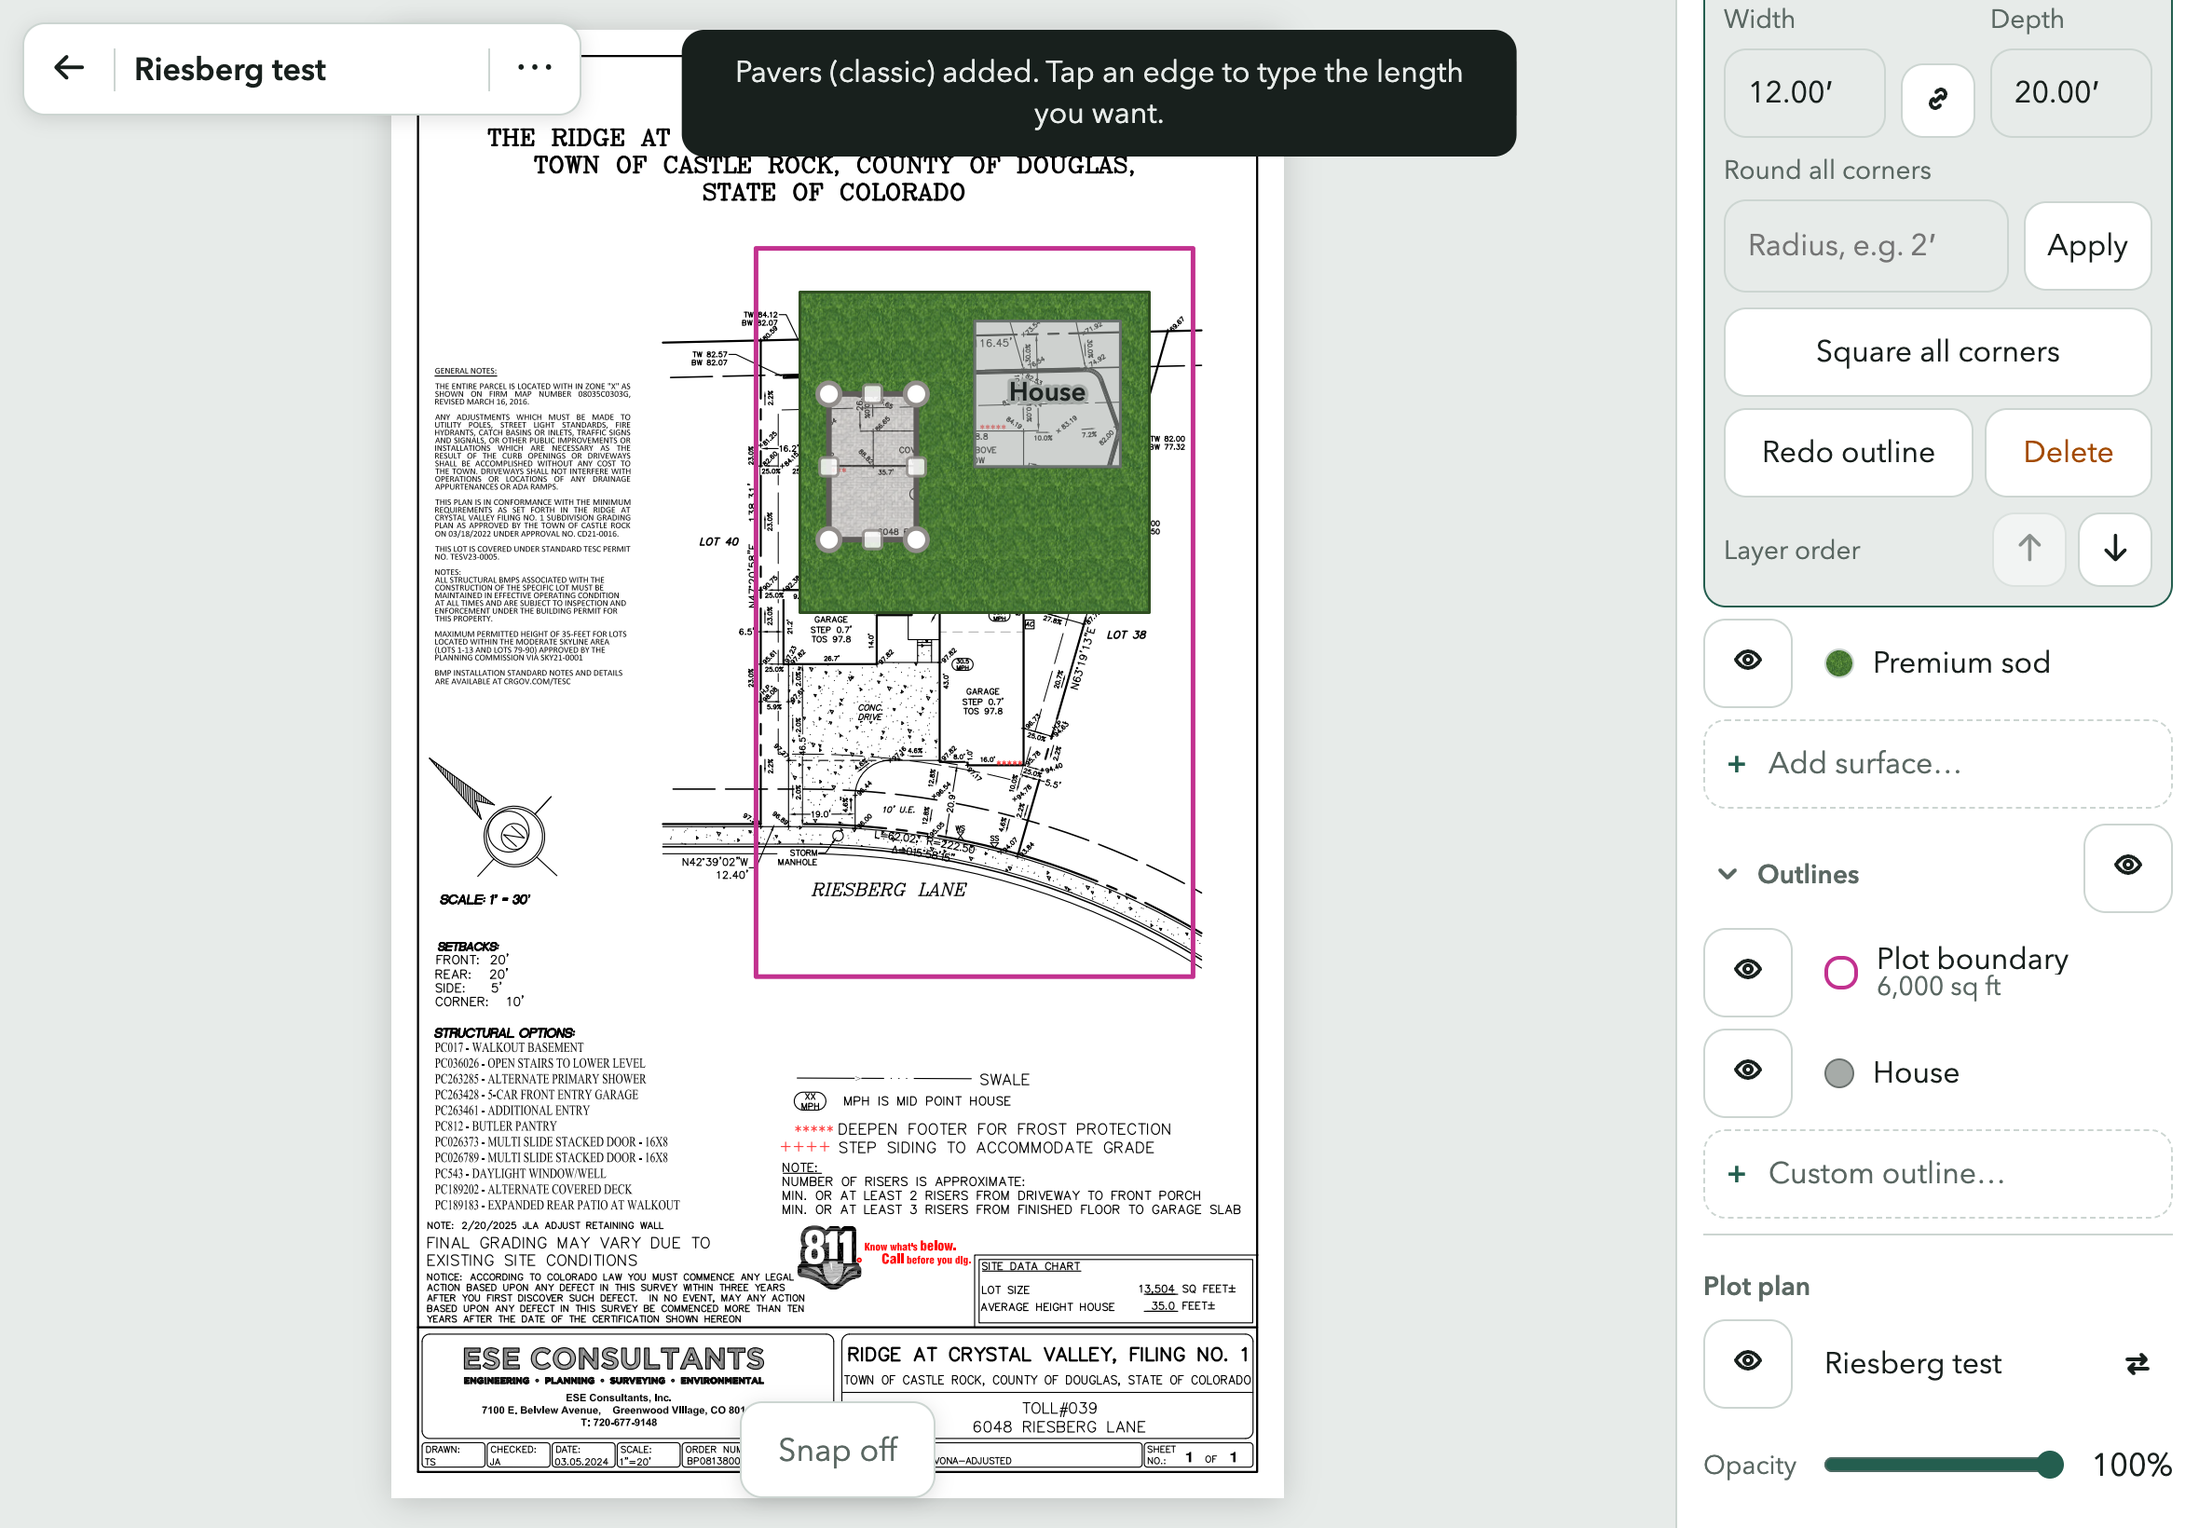
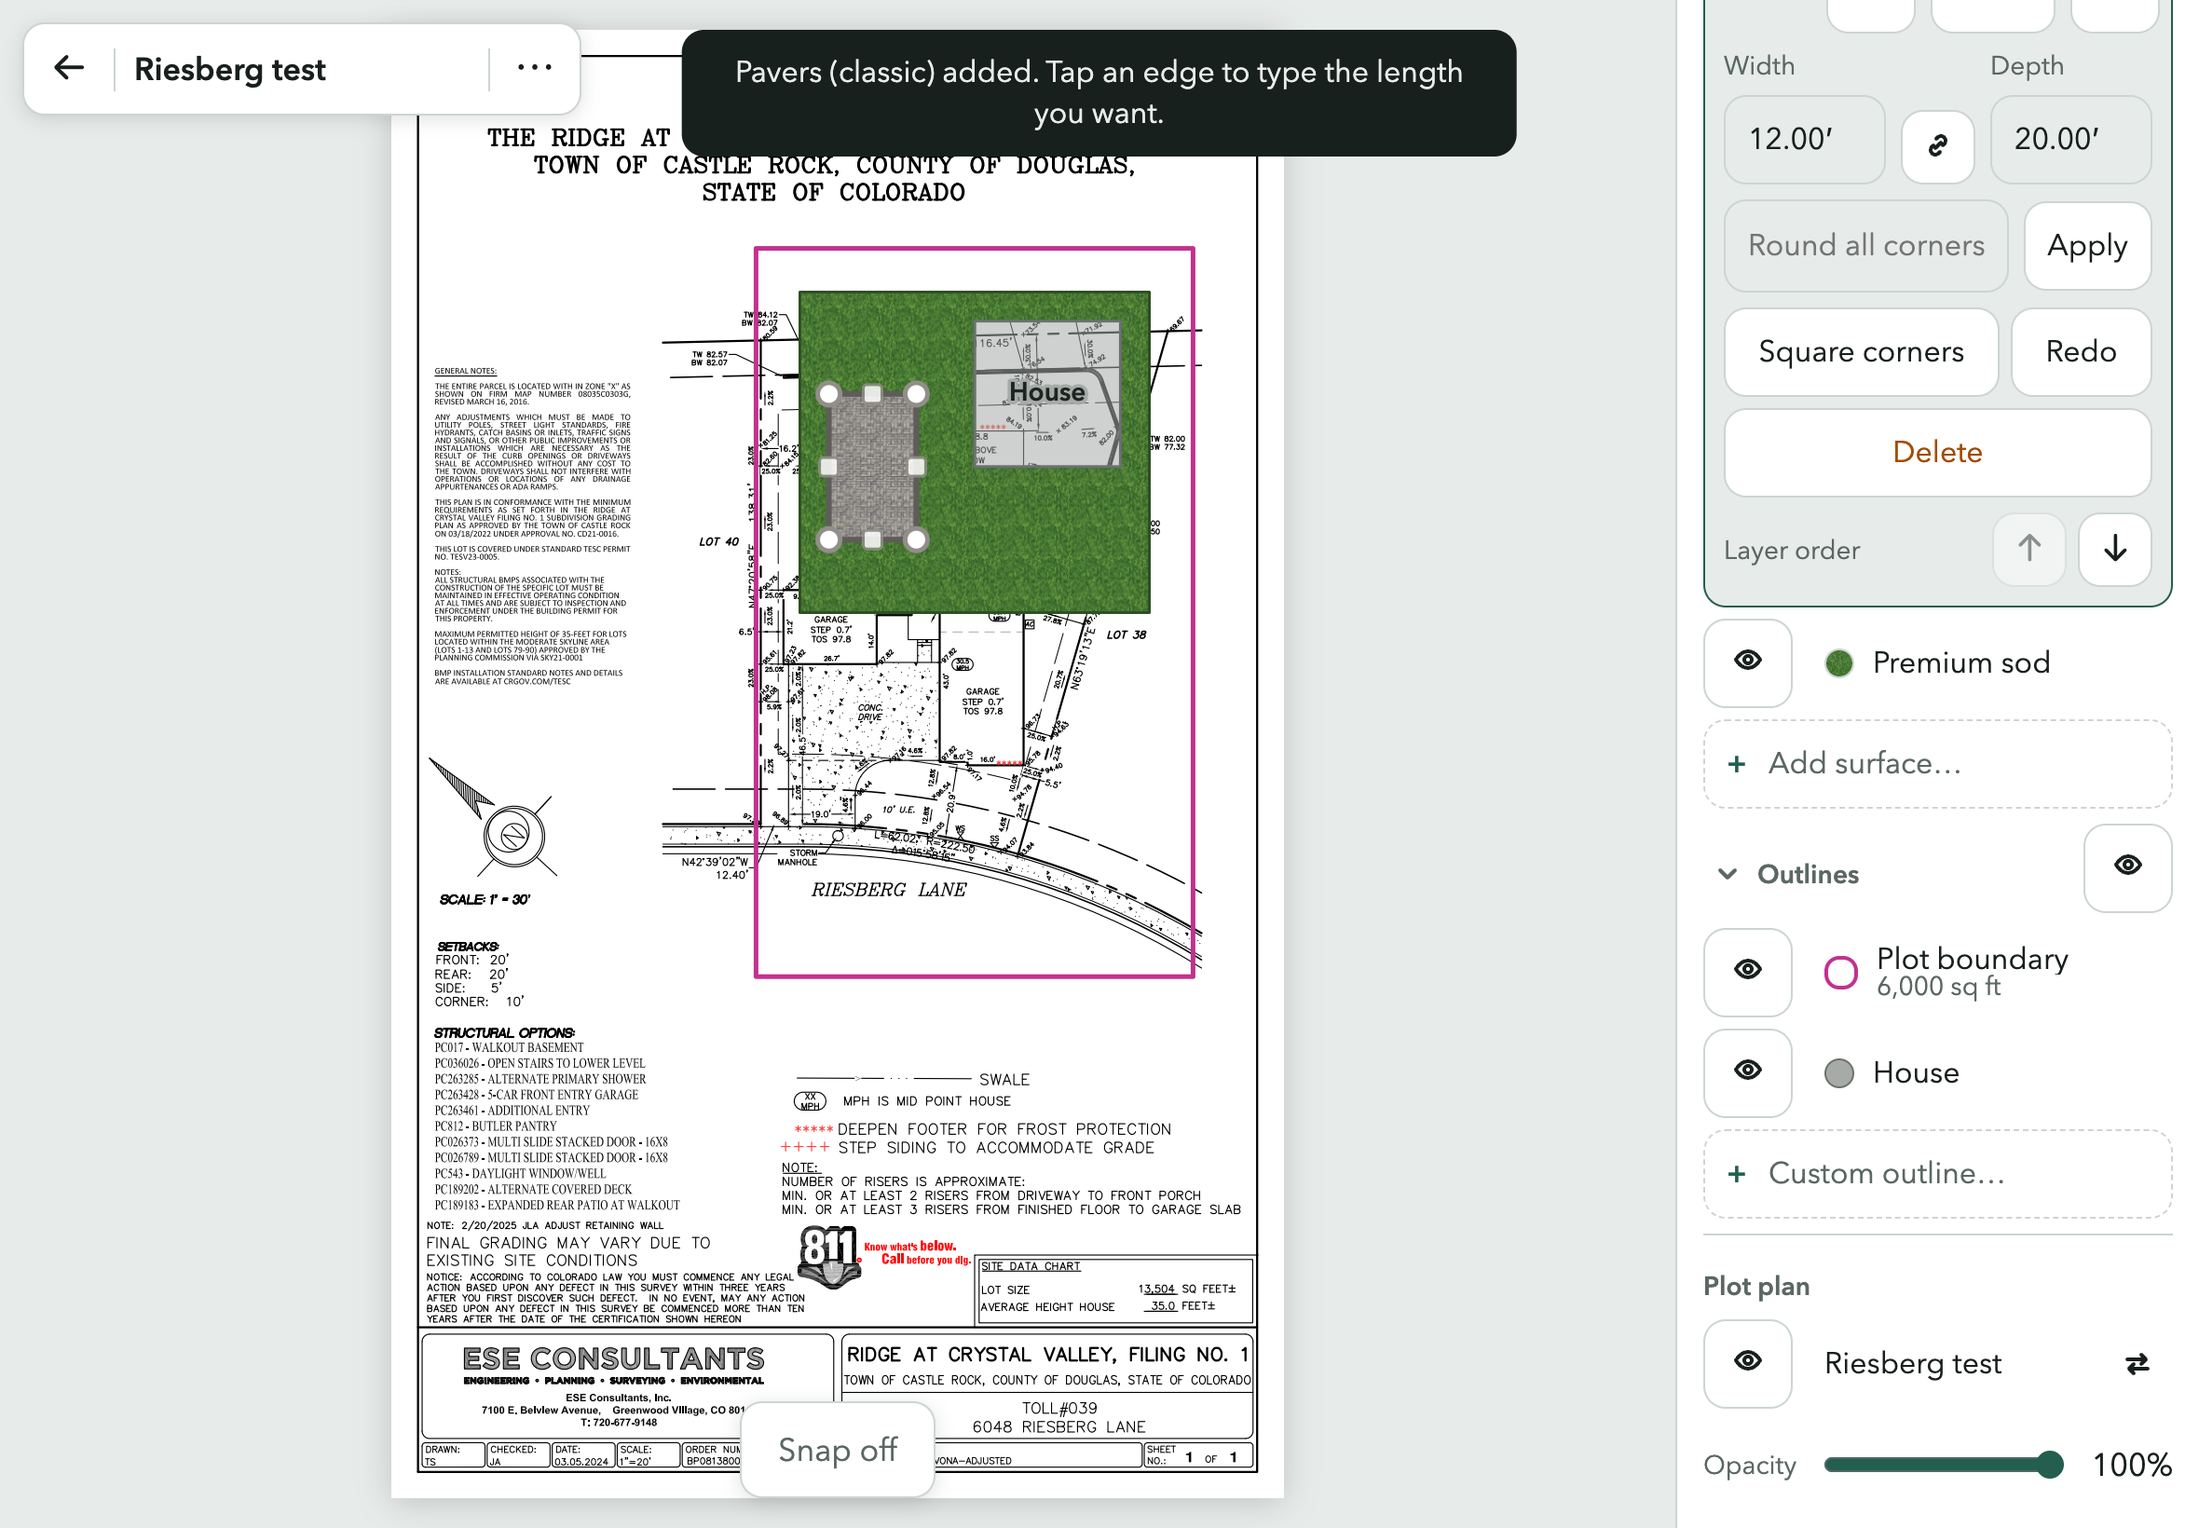
feat(surfaces): arrow keys step Round all corners; round handle sits further out with a bigger target

diff --git a/plan-builder/src/outline-ui.ts b/plan-builder/src/outline-ui.ts
@@ -747,7 +747,7 @@ export class OutlineTool {
     return o?.kind === 'surface' && o.closed ? o : null;
   }
   /** Where the selected surface corner's round handle sits (screen), on its bisector at the arc's middle. */
-  private roundHandlePos(): { id: string; i: number; at: Point } | null {
+  private roundHandlePos(): { id: string; i: number; at: Point; onArc: boolean } | null {
     const o = this.selectedZone, sel = this.selectedCorner;
     // The corner the pointer is near shows its handle; otherwise the selected corner does.
     const c = this.hoverCorner !== null && o ? { id: o.id, i: this.hoverCorner } : sel;
@@ -755,15 +755,15 @@ export class OutlineTool {
     // On the arc's middle once rounded (on the drawn line, even when the radius is clamped to the sides); a sharp
     // corner's handle sits just inside it.
     const arc = cornerArc(o.pts, c.i, o.radii?.[c.i] ?? 0);
-    if (arc) return { id: o.id, i: c.i, at: this.host.toScreen(arc[arc.length >> 1]) };
+    if (arc) return { id: o.id, i: c.i, at: this.host.toScreen(arc[arc.length >> 1]), onArc: true };
     const { dir } = cornerBisector(o.pts, c.i), d = MARK.roundHandleMin;
     const s = this.host.toScreen(o.pts[c.i]), t = this.host.toScreen({ x: o.pts[c.i].x + dir.x, y: o.pts[c.i].y + dir.y });
     const u = { x: t.x - s.x, y: t.y - s.y }, l = Math.hypot(u.x, u.y) || 1;
-    return { id: o.id, i: c.i, at: { x: s.x + u.x / l * d, y: s.y + u.y / l * d } };
+    return { id: o.id, i: c.i, at: { x: s.x + u.x / l * d, y: s.y + u.y / l * d }, onArc: false };
   }
   private roundHandleAt(p: Point) {
     const h = this.drawing ? null : this.roundHandlePos();
-    return h && dist(h.at, p) < HIT.roundHandle ? h : null;
+    return h && dist(h.at, p) < (h.onArc ? HIT.roundHandleOnArc : HIT.roundHandle) ? h : null;
   }
   private bendHandleAt(p: Point): { id: string; i: number } | null {
     let best: { id: string; i: number } | null = null, bd: number = HIT.bend;
@@ -870,11 +870,19 @@ export class OutlineTool {
     this.update();
   }
   /** Round every corner of a surface to one radius in feet (0 = all sharp). */
-  roundAll(id: string, feet: number) {
+  roundAll(id: string, feet: number, steps = false) {
     const o = this.outlines[id], c = this.cal; if (o?.kind !== 'surface' || !c) return;
-    this.record();
+    // Arrow-key steps within 1.5 s undo as one step (like a corner's).
+    const t = performance.now(), ln = this.lastNudge, key = -1, run = steps && ln && ln.id === id && ln.i === key && t - ln.t < 1500;
+    if (!run) this.record(); else this.revision++;
+    if (steps) this.lastNudge = { t, id, i: key };
     o.radii = o.pts.map(() => feet / c.ftPerPt);
     this.update();
+  }
+  /** The one radius (feet) every corner of a surface has, or 0 when they differ or are sharp. */
+  uniformRadius(id: string): number {
+    const o = this.outlines[id], c = this.cal, r = o?.radii; if (!o || !c || !r?.length || r.length !== o.pts.length || r.some(x => x !== r[0])) return 0;
+    return Math.round(r[0] * c.ftPerPt * 100) / 100;
   }
   /** Square all corners: line every corner of an outline up with the others at once. */
   squareAll(id: string) {

diff --git a/plan-builder/src/surfaces-ui.ts b/plan-builder/src/surfaces-ui.ts
@@ -4,6 +4,7 @@
 import { material, materialsByFamily, type MaterialId } from './materials';
 import { TEX_SCALE } from './outline';
 import { formatFeet, parseFeet, parseRadius, stepTexScale, type Outline } from './outline';
+import { stepRadius } from './shape-edit';
 import type { OutlineTool } from './outline-ui';
 import { drawingCard, editActions, orderControl, wireLayerCard } from './layer-card';
 import { button, caption, choiceLine, esc, field, formStack, hint, input, layerCard, layerForm, layerRow, nudgePad, row, suggestRow, swatch } from './ui';
@@ -63,11 +64,23 @@ export class SurfacesSection {
       size.querySelector<HTMLButtonElement>('[data-act=aspect-lock]')!.onclick = () => { t.aspectLock = !t.aspectLock; this.render(); };
     }
     const round = this.el.querySelector<HTMLFormElement>('form.round-all');
-    if (round && card) round.onsubmit = e => {
-      e.preventDefault();
-      const ft = parseRadius(round.querySelector('input')!.value);
-      if (ft !== null) t.roundAll(card.dataset.card!, ft);
-    };
+    if (round && card) {
+      const field = round.querySelector<HTMLInputElement>('input')!, id = card.dataset.card!;
+      round.onsubmit = e => {
+        e.preventDefault();
+        const ft = parseRadius(field.value);
+        if (ft !== null) t.roundAll(id, ft);
+      };
+      // Arrow keys step the radius live (0.5′, Shift 2′), like a corner's; the field keeps focus through the redraw.
+      field.onkeydown = e => {
+        if (e.key !== 'ArrowUp' && e.key !== 'ArrowDown') return;
+        e.preventDefault();
+        const ft = stepRadius(parseRadius(field.value) ?? t.uniformRadius(id), e.key === 'ArrowUp' ? 1 : -1, e.shiftKey);
+        t.roundAll(id, ft, true);
+        const next = this.el.querySelector<HTMLInputElement>('form.round-all input');
+        if (next) { next.value = ft ? String(ft) : ''; next.focus(); }
+      };
+    }
   }
 
   /** Width × Depth of the zone's bounding box with an aspect lock between them (needs a scale). */
@@ -96,7 +109,7 @@ export class SurfacesSection {
     const mat = this.changing === o.id ? picker(o.material)
       : choiceLine(swatch(sw), material(o.material!).name, button('Change', { mods: ['compact'], data: { act: 'change-material' } }));
     const round = t.cal ? formStack(row(
-      input('round-all', { inputmode: 'decimal', placeholder: 'Round all corners, e.g. 2′', ariaLabel: 'Round all corners' }), button('Apply', { mods: ['compact'], type: 'submit' })), 'round-all') : '';
+      input('round-all', { inputmode: 'decimal', placeholder: 'Round all corners, e.g. 2′ (↑ ↓ to adjust)', ariaLabel: 'Round all corners' }), button('Apply', { mods: ['compact'], type: 'submit' })), 'round-all') : '';
     return layerCard({
       id: o.id, swatch: sw, name: o.name, done: true, rename: true, renameId: 'surface-rename',
       body: `${mat}${this.texScale(o)}${this.size(o)}${t.cornerSelected ? nudgePad() : ''}${round}${editActions(true)}${orderControl(t, o.id)}`,

diff --git a/plan-builder/src/overlay-tokens.ts b/plan-builder/src/overlay-tokens.ts
@@ -20,8 +20,8 @@ export const MARK = {
   guideLabelDy: 24,
   cornerBracket: 8,     // rectangle tool: arm length of the ⌐ mark at the pointer
   guideSpan: 100000,    // rectangle tool: the guides run this far each way (the plan clips them)
-  roundHandle: 6,       // surfaces: radius of the round-corner handle on the selected corner's bisector
-  roundHandleMin: 22,   // …and its least distance from the corner (screen px), so it doesn't hide under the corner dot
+  roundHandle: 8,       // surfaces: radius of the round-corner handle on the selected corner's bisector
+  roundHandleMin: 34,   // …and its least distance from the corner (screen px): clear of the corner dot's hit area, so each is easy to reach
 } as const;
 
 export const MAGNIFIER = { size: 132, zoom: 3, gap: 40, crosshair: 14, crosshairWidth: 1.5 } as const;
@@ -36,8 +36,9 @@ export const HIT = {
   bend: 20,             // an edge's middle square
   zoneCorner: 14,       // a selected surface's corner dot (tighter, so its sides and round handle stay reachable)
   zoneSide: 10,         // the drawn straight part of a selected surface's side (push it)
-  roundHandle: 13,      // the round handle (small, so the sides next to it stay easy to grab)
-  roundReveal: 24,      // from the drawn line at a selected surface's corner (its arc, once rounded): shows the round handle
+  roundHandle: 18,      // the round handle on a sharp corner (finger-sized; it floats clear of the corner dot and the sides)
+  roundHandleOnArc: 13, // …once the corner is rounded and the handle sits on the arc (smaller, so the sides next to it stay easy to grab)
+  roundReveal: 52,      // from the drawn line at a selected surface's corner (its arc, once rounded): shows the round handle, out to the handle itself
 } as const;
 
 /** Gesture thresholds: distances in screen px, times in ms. */

diff --git a/docs/PRD.md b/docs/PRD.md
@@ -119,7 +119,7 @@
 - **Card:** rename in place (default name = material), **change material** (renames only a zone still named after its material), Square all corners, Redo outline, Delete, Layer order.
 - **Look:** **solid** fill when unselected; **see-through** only while being drawn (a selected zone stays solid). **No name label on the plan** (the fill says what it is; the row names it). The plot boundary is drawn as its line only — no tint — so the plan shows through untouched.
 - **Edge lengths are reversed for zones:** typing a length on a zone edge **resizes the zone** — it stretches along that edge from the end that stays put (the corner nearer the tap, marked on the plan; Swap switches). A rectangle stays square; on a curved edge the length is along the curve; sizes are true sizes on a stretched plan. Zones never change the scale; before a scale exists the popover says to set it on an outline edge first.
-- 🔨 **Editing a selected zone:** drag **inside** to move it (arrow keys too, when no corner is selected); drag a **side** to push it in or out (its neighbours follow, so a rectangle stays a rectangle); the middle square still **curves** the side. **Round corners:** select a corner and type a radius in its chip, or drag the round handle on the corner; **Round all corners** in the card. A side shows a two-way arrow pointer across it (like design tools); hovering near a corner's drawn line (its arc, once rounded) shows its round handle, which then sits on the arc; a side reacts only along its drawn straight part, and the corner dots take a tighter area; with the corner's radius field focused, ↑ ↓ step it by 0.5′ (Shift 2′), and a run of steps undoes as one. The card shows the material as one line with **Change**, which opens the picker in place. Hovering says what a drag would do ("Drag to move", "Drag to move the side · 12.00′", "Drag to curve the side", "Drag to round the corner"). The zone's name in its card shows as an underlined field with a pencil, so it's clearly renameable.
+- 🔨 **Editing a selected zone:** drag **inside** to move it (arrow keys too, when no corner is selected); drag a **side** to push it in or out (its neighbours follow, so a rectangle stays a rectangle); the middle square still **curves** the side. **Round corners:** select a corner and type a radius in its chip, or drag the round handle on the corner; **Round all corners** in the card. A side shows a two-way arrow pointer across it (like design tools); hovering near a corner's drawn line (its arc, once rounded) shows its round handle, which then sits on the arc; a side reacts only along its drawn straight part, and the corner dots take a tighter area; with the corner's radius field focused, ↑ ↓ step it by 0.5′ (Shift 2′), and a run of steps undoes as one; the **Round all corners** field in the card steps the same way (↑ ↓ / Shift, one undo step per run, focus stays in the field). On a sharp corner the round handle floats well clear of the corner dot (34 px) with a finger-sized target. The card shows the material as one line with **Change**, which opens the picker in place. Hovering says what a drag would do ("Drag to move", "Drag to move the side · 12.00′", "Drag to curve the side", "Drag to round the corner"). The zone's name in its card shows as an underlined field with a pencil, so it's clearly renameable.
 - 🔨 **Draw shape default by kind:** outlines (plot boundary, existing features) start in **Freehand**; surfaces start in **Rectangle**. Switching (bar or X) while drawing is remembered **per kind** on the device, so a zone last drawn Freehand starts Freehand next time and the outlines' choice is unaffected.
 - 🔨 **Snap is off by default for surfaces** (designed, not traced) and on for outlines; the Snap toggle switches the one for what's being drawn or edited.
 - 🔨 **Width × Depth (stage 2):** a selected zone's card has a **Size** row — **Width** and **Depth** of the zone's bounding box (axis-aligned to the page, true feet), for any zone, not only rectangles; an irregular shape reports its overall extent. Typing one resizes the zone **from the center of that box**, along that axis only; an unreadable entry snaps back. A **lock** between the fields (off by default) scales both axes in proportion. The lock is a session preference, not saved, and turns off when another zone is selected. Curved sides count with their bulge. One undo step per entry. Needs a scale (hidden until one exists). Zones only: outlines' typed lengths set the scale. Not shown while drawing.

diff --git a/docs/conversations/2026-10-16-surface-textures.md b/docs/conversations/2026-10-16-surface-textures.md
@@ -16,6 +16,11 @@
 - Visibility is **saved with the plan** (session-only was the alternative), as `hiddenLayers` and `hiddenSections` next to `outlines` (not on the outlines, so undo can't bring a layer back). Not an undo step.
 - The plot boundary belongs to the Outlines section. Only collapsed rows have an eye; a selected layer's card has none.
 
+## Picker, sharper textures, rounding (same day)
+- The material picker is a **list** (swatch + name rows under family captions), not chips. Selected zones stay solid; only the zone being drawn is see-through. The zone card is more compact.
+- Textures are **688 px tiles** cut from Figma's 4× exports of each swatch (the raw source images have the wrong tint, so they were not used). Swatches use 64 px thumbnails, so the big tiles load only for zones.
+- **Round all corners** takes ↑ ↓ (Shift: 2′) like a corner's radius field. The sharp corner's round handle moved out (22 → 34 px) and its hit area grew (13 → 18 px); on a rounded corner's arc it stays 13 px so the sides beside it stay grabbable. Rounding already works on any straight-edged shape; corners next to a curved edge stay sharp (asked, not changed).
+
 ## Later
 - Tiles are 184 px (the size Figma gives); re-export larger if textures look soft at high zoom.
 - Per-material tile sizes (some textures may want a bigger or smaller repeat than 10 ft).
